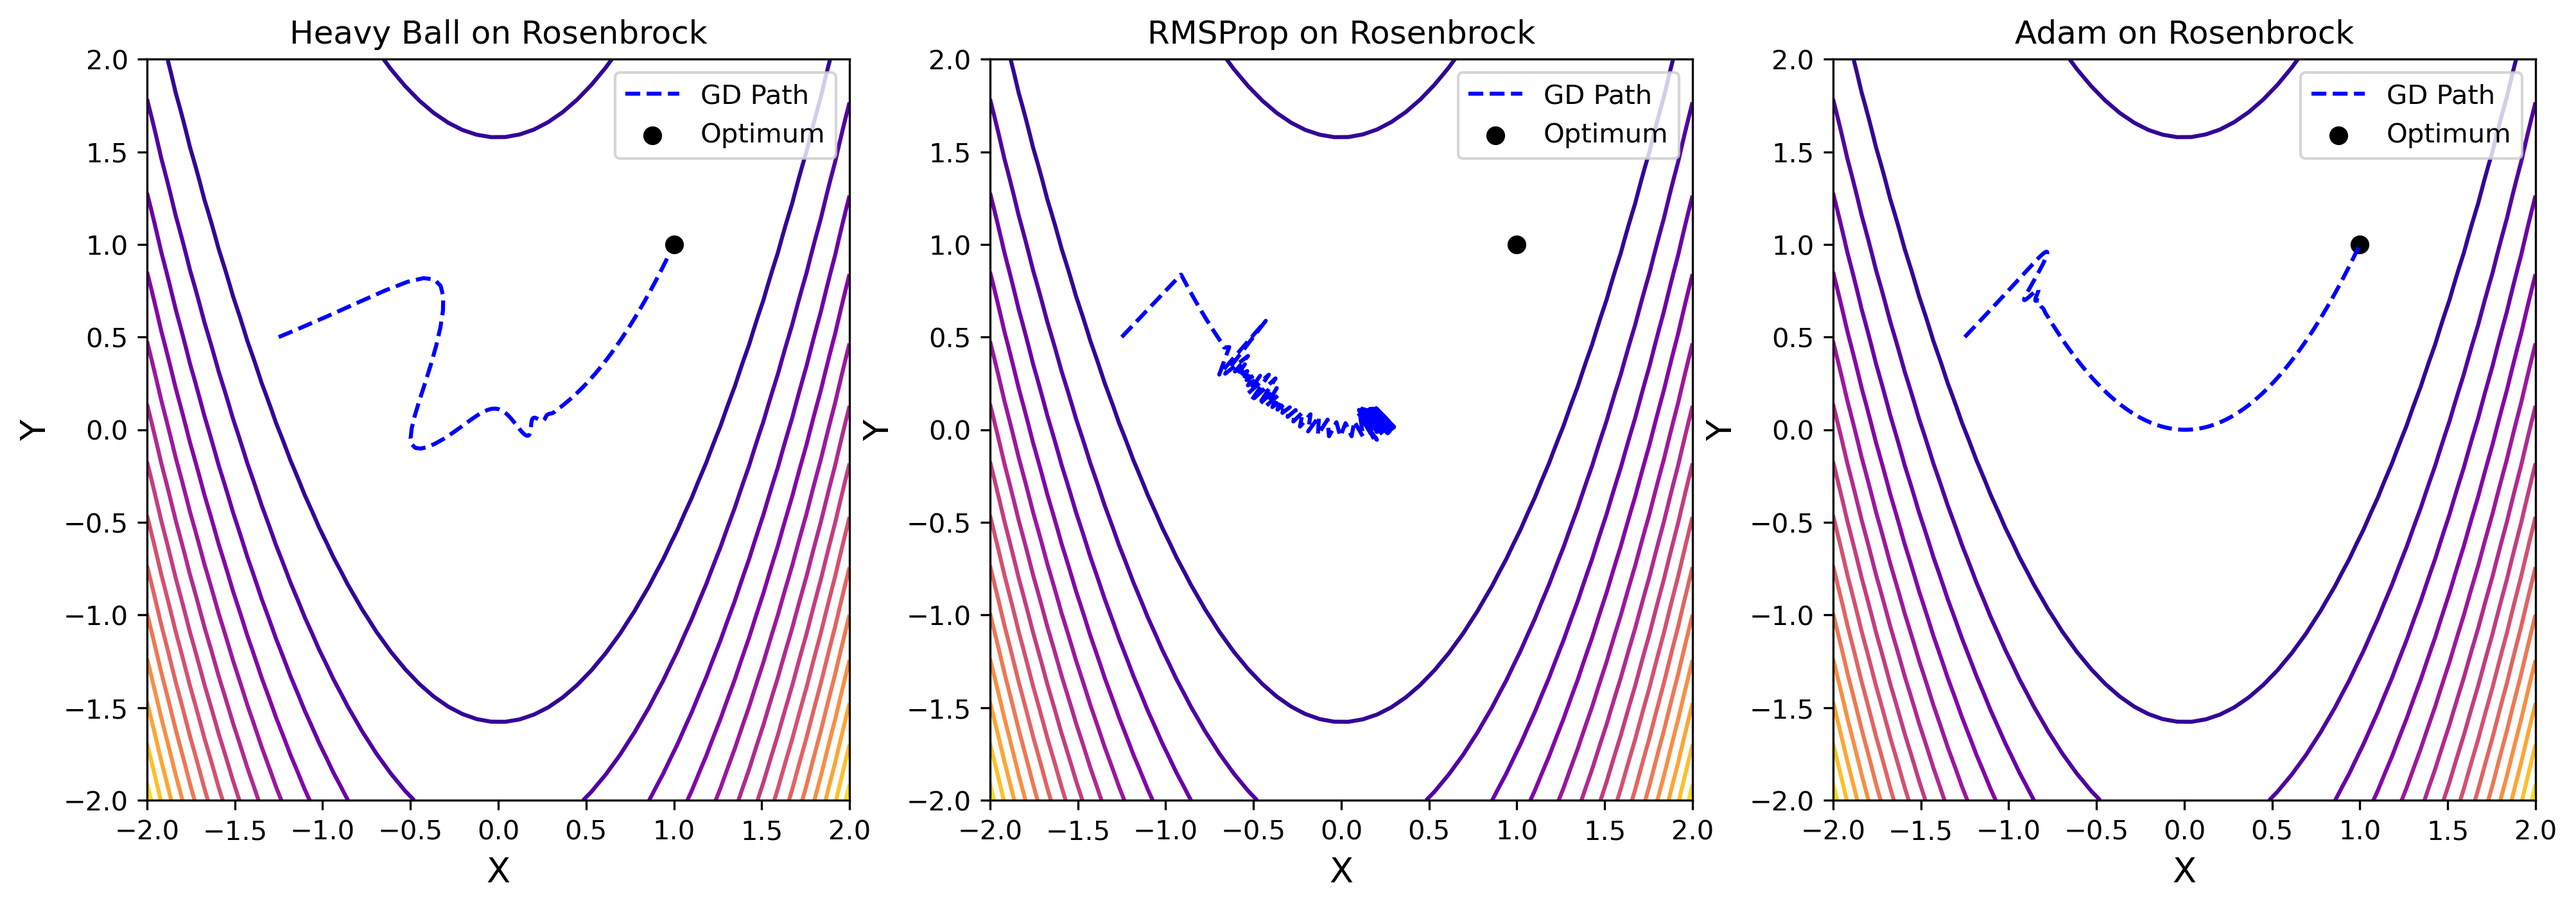
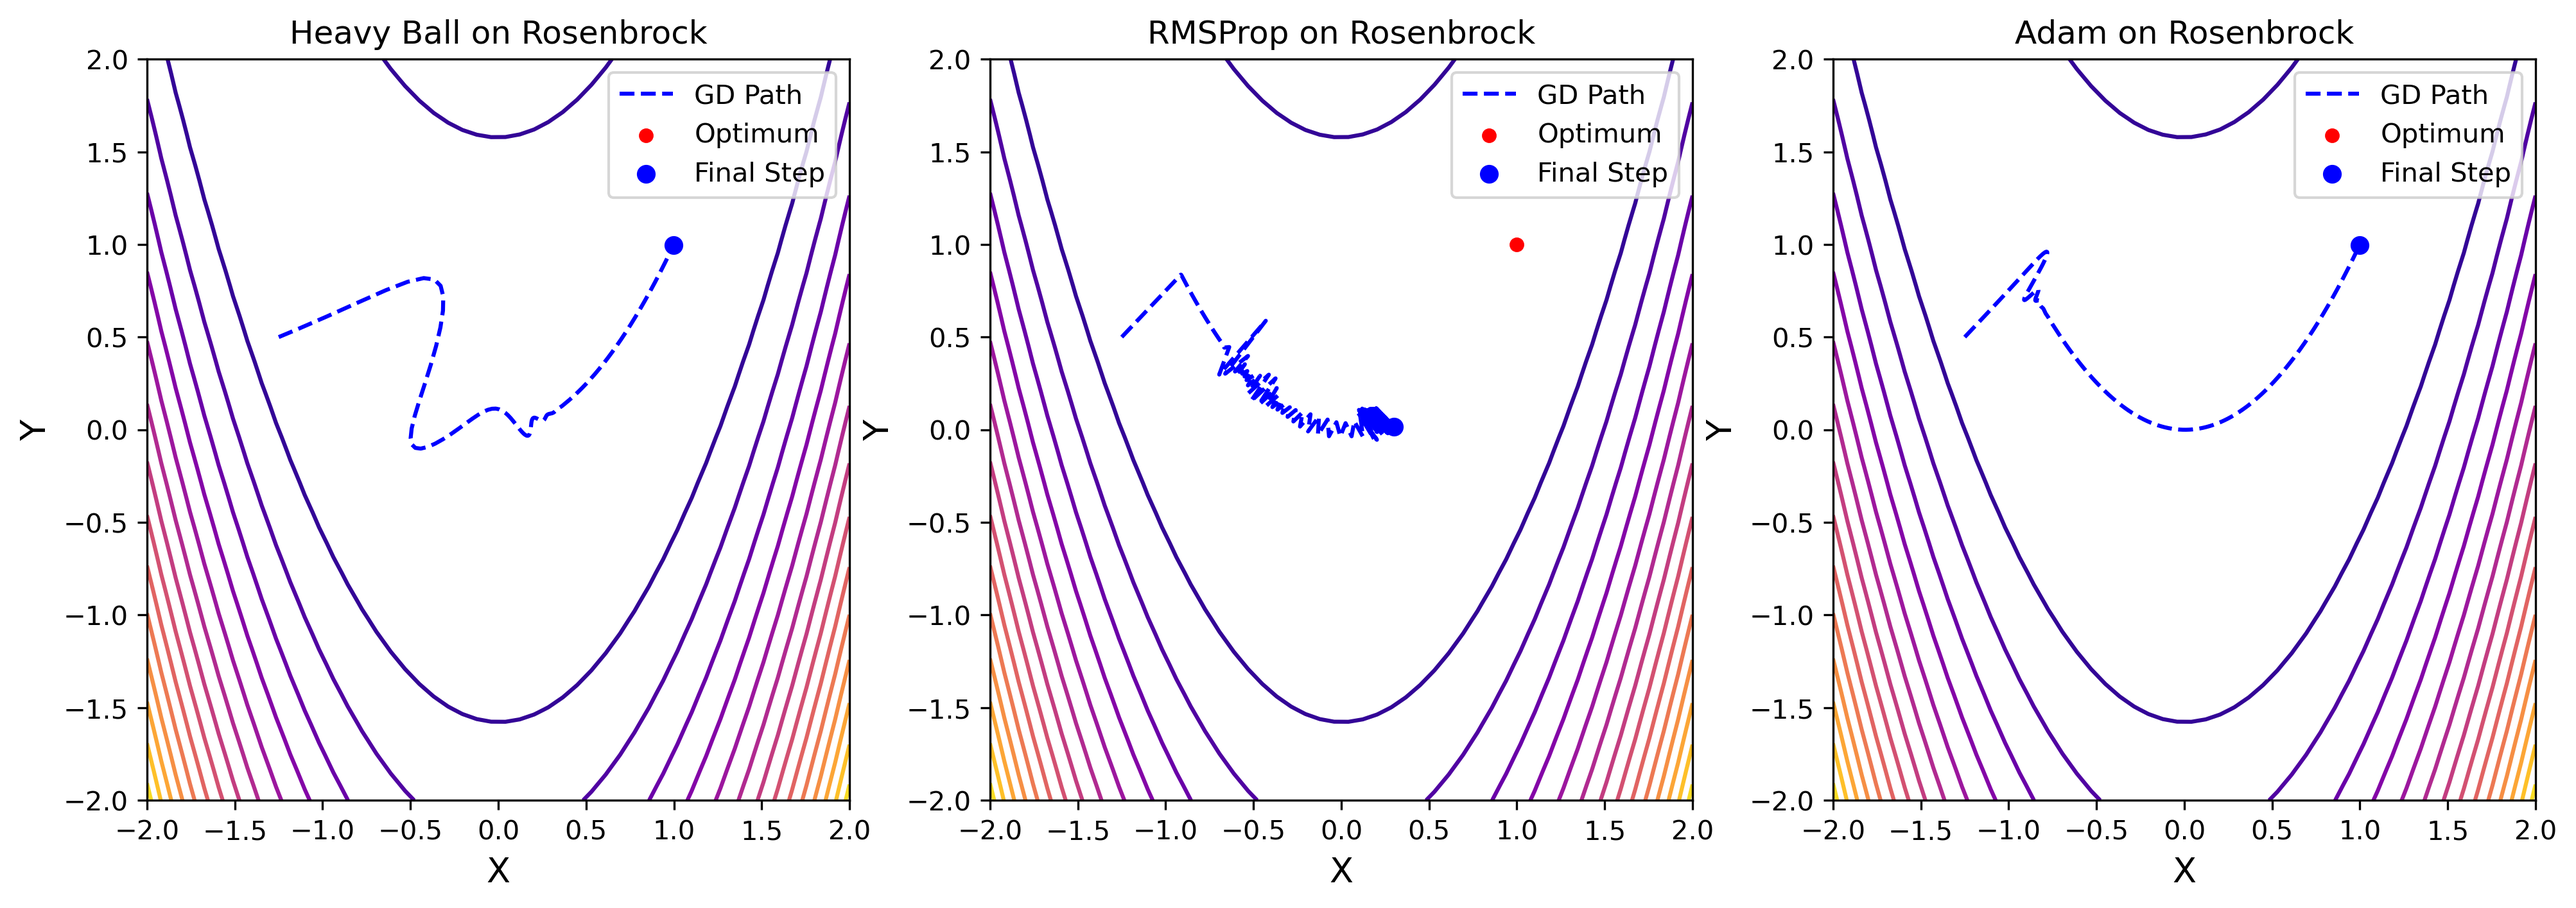
last changes from week4

diff --git a/week4/week4.py b/week4/week4.py
@@ -226,12 +226,13 @@ def question1_part3():
     ]
 
     for (
-        (label, (_, steps)),
+        (label, (opt, steps)),
         ax,
     ) in zip(optimizers, axes):
         ax.contour(X, Y, f(X, Y), levels=10, cmap='plasma')
         ax.plot(*zip(*steps), 'b--', label='GD Path', linewidth='1.5')
-        ax.scatter(0, 0, label='Optimum', c='black')
+        ax.scatter(*opt, label='Final Step', c='blue')
+        ax.scatter(0, 0, label='Optimum', c='red', s=20)
         ax.set_title(f'{label} on f(x,y)={f_sym}')
         ax.set_xlabel('X', fontsize=14)
         ax.set_ylabel('Y', fontsize=14)
@@ -384,12 +385,13 @@ def question2_part3():
     ]
 
     for (
-        (label, (_, steps)),
+        (label, (opt, steps)),
         ax,
     ) in zip(optimizers, axes):
         ax.contour(X, Y, f(X, Y), levels=15, cmap='plasma')
         ax.plot(*zip(*steps), 'b--', label='GD Path', linewidth='1.5')
-        ax.scatter(1, 1, label='Optimum', c='black')
+        ax.scatter(1, 1, label='Optimum', c='red', s=20)
+        ax.scatter(*opt, label='Final Step', c='blue')
         ax.set_title(f'{label} on Rosenbrock')
         ax.set_xlabel('X', fontsize=13)
         ax.set_ylabel('Y', fontsize=13)
